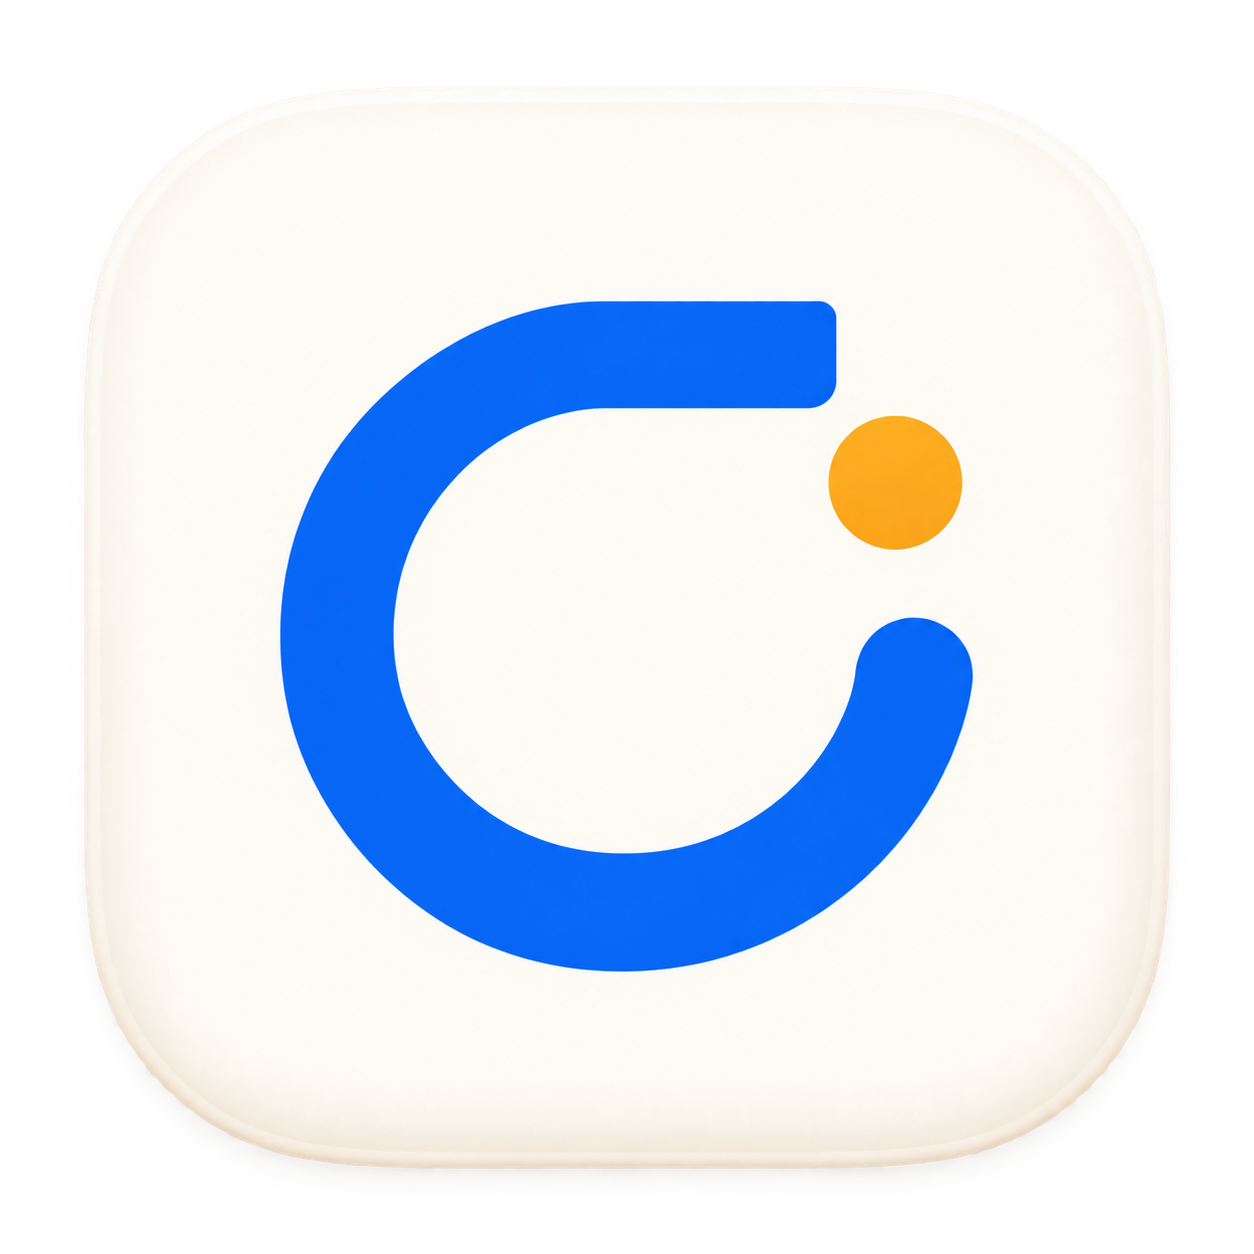
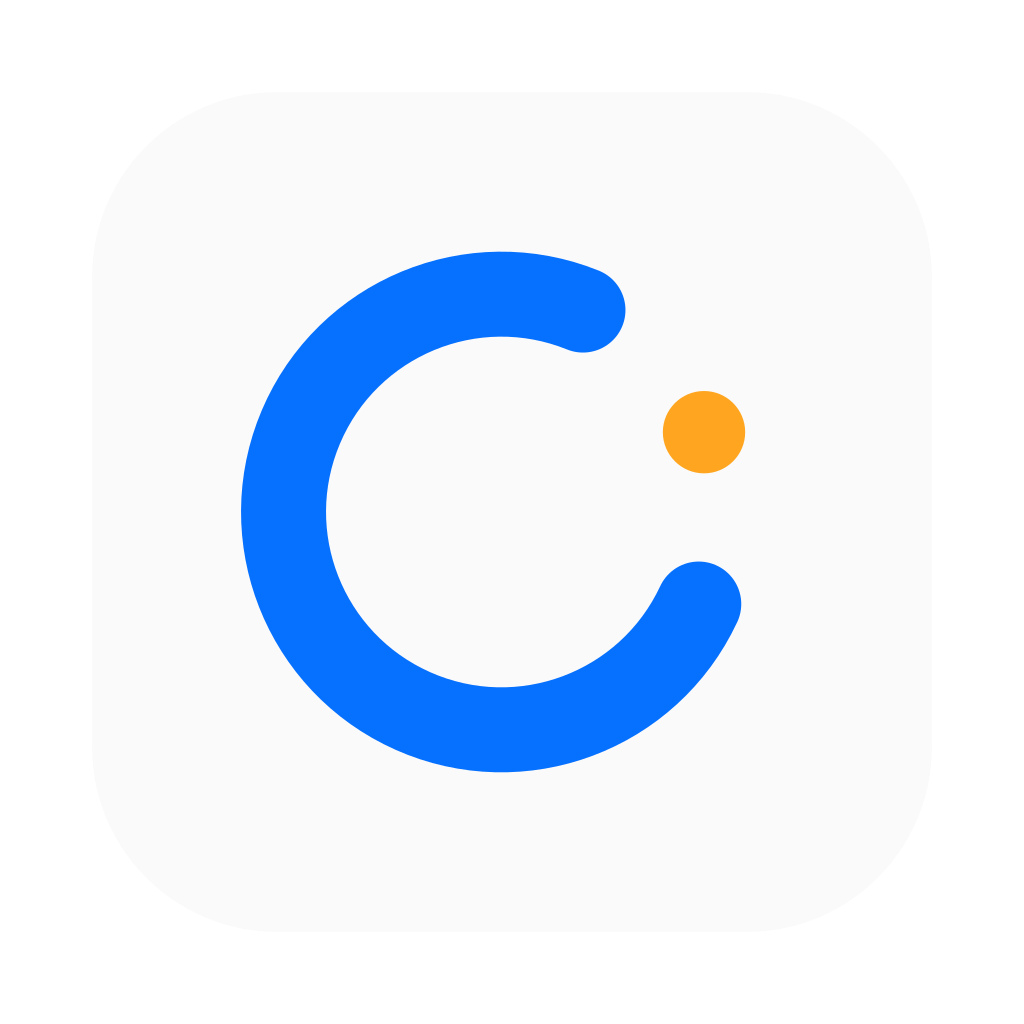
feat: refresh cross-device branding and ship transcript recovery in build 69

diff --git a/docs/STATUS.md b/docs/STATUS.md
@@ -1,5 +1,19 @@
 # 当前状态与续做记录
 
+2026-09-30 新图标、启动动画与消息同步恢复：按用户选定01号方案统一Mac/Android矢量资源，并按反馈将橙点下移至开口视觉中间。手机系统启动沿原450ms入口替换飞机，无底板；桌面图标与冷启动录像实拍确认。现场查明主长对话增量游标停在9,001,542字节compacted记录前；CLI以固定块跳过已确认无正文的顶层压缩快照，保留其他正文与工具记录，并修初页EOF竞态。51项专项、typecheck、独立审查通过；真实只读56页回放取得66条消息并追平。Swift205项、release与签名通过，Mac69正式覆盖安装且账号/机器身份保持，手机51aff080覆盖安装并回读SHA一致。目标详情未打开时本地缓存由156增至223条，用户确认“问题已经解决了，OK的”，并决定今天开始正式使用、边用边测；此后停止设备输入与服务重启。未新增断网/合盖/后台推送验收。连接组件2a84c29a5、Android dc28c18已本地提交，未推第三方上游；主仓阶段提交按本轮收尾执行。保留最新/上版及离线模拟器版本，旧Mac67/手机6ef包按哈希核验后清理。详见当日原生验收；下一步按用户实际远程反馈处理，不自行打断正式使用。
+
+2026-09-30 启动预览去底板：用户确认去掉Logo后的白色圆角底板。使用内置imagegen生成透明标志并嵌入原约950ms动画，蓝C与橙点独立显示，页面跟随浅/深主题；桌面图标及Android资源未改。透明通道确认背景/内孔alpha为0；浏览器两主题实拍无底板，重播有4项动画、减少动态效果为0、320px无横向溢出、脚本无错误。只更新动画预览及设计记录，未构建安装或提交推送；消息同步问题仍按用户要求仅登记。
+
+2026-09-30 启动动画仅预览：按用户“先做一个动画让我看看”，制作复用原标志的约950ms可重播预览，主体淡入并停稳、橙点弹入亮起，无循环/进度条。浏览器实际渲染及0/400/950ms画面检查通过，320px外层下无横向溢出，减少动态效果时动画为0，脚本无错误。飞机来源已只读定位到Android12+系统启动资源tg_splash_320.xml；未接入Android、未新构建安装，等待用户对预览反馈。消息同步问题只登记不排查；登录页和图标最新修改未提交推送。
+
+2026-09-30 用户反馈新增消息未同步：实体手机安装1759c23f后，用户反馈本对话未更新、未收到新增助手消息。按用户最新决定只登记问题，暂不排查，先做启动动画预览。发生时前后台、网络、同步游标均未核实，根因未确认；关联REQ-002/R-15/D-22及R-06，详见当日原生手机验收记录。此前登录页/图标修改仍未提交推送，Android唯一远程是Telegram上游。
+
+2026-09-30 Android 图标缩小并安装实体手机：用户确认缩小蓝色 C 与橙点、安装最新版本。仅两份 adaptive icon XML 前景四边内缩9%，整体缩小18%，白底及原位图不变；legacy原已有留白不再缩。独立审查与diff检查通过，离线增量构建11秒成功；包含前轮登录页修正，APK 74,078,161字节，产物与实体手机回读SHA一致1759c23fe638678bf0c20c6cbc3a238c57de1119676d9c97561fbbf2270a6c70。覆盖安装Success，启动命令1349ms，桌面实拍确认下方新版图标留白增加、未见异常边框；上方旧版应用保持原状。没有退出账号、清数据或发送消息，不新增收发验收结论。保留手机原6ef516d3回退及断连模拟器最后已装1b7ddf96，核验后清除更旧b8c9bb44/e119aa89两个回退包并保留哈希记录。图标设计与当日验收同步，本轮未提交推送。
+
+2026-09-30 仅登录页恢复原版布局：按用户最新限定，Codex 入口由原邮箱页改回原 PhoneView，去掉邮箱插图和国家/区号入口，复用原标题、说明、账号框、箭头按钮与翻页动画；保留现有密码认证，账号不走手机号清洗、SIM 或短信流程。Android 离线构建通过（4分6秒），模拟器独立用户11安装并回读完整SHA一致1b7ddf9600565620e471f71e9156d463b57c0bc1929aa581d5aa396b8d7f789c，74,078,161字节。实测合成账号字母/数字/下划线完整、进入密码页、返回仍保留账号；清测试文本并拍摄收起键盘的最终图。未提交密码或复验登录收发，实体手机未连接。恢复模拟器原用户10及AC off；保留本轮前设备实际包e119aa89回退与断连手机相关回退b8c9bb44，未清应用数据。需求、设计及验收记录已同步；本轮未提交推送，其他页面不在本轮修改范围。
+
+2026-09-30 Telegram 分支只读对照：按用户“先不改”要求，核实 Nekogram 隐藏底部导航、Nagram 逐项消息菜单隐藏、Forkgram 入口删减、Forkgram Classic 保留经典外观、exteraGram 导航/设置/菜单替换，以及 Nagram X Turbo 可选 iOS 风格输入栏。均为项目官网、仓库或发布说明证据，不代表已在本机运行验收。Forkgram 仓库及 exteraGram 官网有发布图片，具体截图版本未注明，图片读取部分受限、浏览器打开超时，不能宣称完成逐像素对照。当前 Android 源码再次确认：Codex 消息菜单仅复制/失败重试，聊天顶部菜单整块隐藏，historyMessage 未映射文字格式 entities；局部选字 helper 仍在，不能据此断言功能已删除，多选复制已有前轮实测。下一步应逐页核对保留交互与删减入口，用户确认前不切换基座、不改产品代码。本轮无构建、安装或提交推送。
+
 2026-09-30 实体手机首轮验收：用户连接并授权操作后，原生6ef516d3安装成功，设备APK完整SHA与产物一致，保留旧版数据；同账号登录成功。蜂窝网络在线基线physicalbase0930的T0→桌面原记录T2为2116.3ms；两轮确认默认网络none后自动恢复，状态恢复观测3622.8/4594.5ms（含UI层级采样），恢复后首发physicalreca0930/physicalrecb0930分别2487.5/323.5ms。三条原用户/助手记录各1，手机自动回复，下一草稿及键盘保留；离线退出重开测试对话仍显示历史和草稿。T2采样50ms含ADB注入，T1/精确T3未观测。本轮未测合盖、锁屏推送、实际审批或长历史完整矩阵。清测试草稿并返回列表，恢复两SIM数据开、WiFi关，默认网络已恢复；无生产代码变更。
 
 2026-09-30 原表情面板中文补齐：实测无GIF/贴纸入口，但分类仍英文；补原12条资源（8分类及近期表情相关文字），不改布局。构建3秒、安装Success、冷启3283ms；产物/设备SHA一致6ef516d3755f0a25b616af81a0ce1b6772ea2fe6d67a6b06f0cfc89a253f59d3，74,077,956字节。真实面板显示表情与人物，点击表情进入草稿，原删除按钮清空，未发送；回首页并恢复AC off。与b8c9bb44回退包的16个DEX/原生库逐项一致，未重跑收发或扩大功能结论。保留b8c9bb44并核验，清更早e911e6aa；Android本地提交abb79ee，未推送上游。

diff --git a/docs/validation/native-acceptance-2026-09-30.md b/docs/validation/native-acceptance-2026-09-30.md
@@ -1,6 +1,42 @@
 # 原生手机端验收核对（2026-09-30）
 
-当前安装：Mac68 / Android 6ef516d3（表情中文资源补齐，业务DEX/原生库与b8c9bb44一致）。完整证据与失败轮次见 [本批验收](mobile-cache-size.md)。这是实施核对，不修改已确认范围，也不是整体验收通过。
+当前安装：Mac69；实体手机 Android 51aff080（新图标、系统启动动画、登录布局修正），模拟器离线，最后确认包仍为1b7ddf96。不同包的验收证据分别记录，完整证据与失败轮次见 [本批验收](mobile-cache-size.md)。用户已确认本次消息同步问题解决，并从今天开始日常正式使用；这不替代未完成场景的逐项验收。
+
+## 新增消息未更新：现场修复与用户确认
+
+用户恢复排查授权后，保留手机原缓存和电脑连接现场，确认长对话游标停在一条9,001,542字节的 `compacted` 记录前。原读取器8MiB单行上限导致重复空页且游标不动；与后台限制无关。修复只在文字投影和子任务发现路径跳过明确的顶层压缩快照，固定块扫描、完整换行后推进；其他正文和工具结果不按大小丢弃。另修初次历史读取期间新消息追加的EOF竞态。
+
+- 合成验证：4个文件51项通过，CLI typecheck、独立代码审查及差异检查通过。真实只读回放从原卡点连续56页取得66条可显示消息，1257ms，末页无积压；这不是手机端到端耗时。
+- Mac：205项 Swift 测试通过，release构建及深度严格签名通过。正式覆盖安装1.0.0/build69，组件1.0.0+codextop.69；保留账号与机器身份，只恢复一个正式实例。设置窗口已打开；本轮桌面截图API不可用，不宣称截图视觉验收通过。
[1 lines of base64/hex data omitted]
+- 自动补齐：手机停留在会话列表、未打开目标详情及手动刷新，原目标缓存由156条增至223条，原卡住游标已前进；用户随后明确反馈“现在问题已经解决了，OK的”。用户开始边用边测后停止设备输入、重启与安装操作。
+- 图标：采用01号方案，橙点按用户反馈下移至开口视觉中间，Mac和Android共用矢量几何。手机桌面实拍与从桌面点击冷启动的录像确认新图标及无底板的蓝C/橙点动画，无原启动飞机。直接activity启动的首轮录像未拍到启动图标，未作为通过证据。
+
+源码：连接组件本地提交 `2a84c29a5`，原生Android本地提交 `dc28c18`；不推送第三方上游。私有证据在忽略目录 `.local/latest-message-20260930/`。本次未发新合成消息、未复测两轮断网、三秒送达、合盖或后台锁屏推送；非压缩超大行、缺尾游标及来源断档恢复仍为独立边界，不据此宣布全功能完成。
+
+构建中首次未找到Bun，复用已有本地工具修正PATH后通过；资源打包前曾用错源文件相对目录，纠正为绝对路径并核验15份PNG后重打最终包，错误中间包未安装。旧产物清理保留Mac69及68回退、Android当前包及1759c23f回退、离线模拟器仍在用的1b7ddf96；核对哈希后清理Mac67和手机更早6ef516d3。
+
+### 最初登记（保留问题经过）
+
+用户在安装1759c23f后反馈当前对话没有更新，未收到桌面新增助手消息，并明确要求先将其作为问题记录、暂不排查，先做启动动画。关联REQ-002/R-15/D-22（普通对话自动同步）及R-06（原任务收发）。发生时应用前后台、网络、连接与同步游标尚未核实，未复现、未确认根因，不归因为后台限制，不标记已修复。
+
+后续验收应确认：手机已打开当前对话时，桌面新增消息自动入列；未打开详情时新消息自动保存到本地，重进不需手动刷新。此前其他包的成功记录不能代替本次问题验证。
+
+## 启动图标缩小与实体手机覆盖安装
+
+用户确认将蓝色 C 和橙点整体缩小，并安装最新版。两份 adaptive icon XML 前景四边内缩9%（主体缩小18%），原位图和白底不变；legacy图标原已有留白不再缩放。独立资源审查、差异检查及离线构建通过（11秒）。APK 74,078,161字节，完整SHA256为1759c23fe638678bf0c20c6cbc3a238c57de1119676d9c97561fbbf2270a6c70，实体手机覆盖安装Success且设备包哈希一致；包含前轮登录页修改。
+
+启动命令返回正常（1349ms），进程存活，无本轮应用崩溃记录。桌面实拍显示下方新版图标主体缩小、白色留边增加，未见异常底板边缘；上方仍为未修改的旧版应用。截图位于私有忽略目录`.local/icon-spacing-20260930/launcher-final.png`。未退出账号、清数据或发送测试消息，不将安装/图标验证扩展为收发或新登录验收。
+
+构建前磁盘可用23GiB，核查Gradle缓存8.4GiB及两模块构建目录2.2/1.6GiB，未清空缓存。安装回读成功后，保留新包、手机原6ef516d3回退及断连模拟器仍在用的1b7ddf96；核验哈希后淘汰更旧b8c9bb44/e119aa89回退包，保留小体积哈希记录。本轮未提交推送。
+
+## 登录页恢复原版布局
+
+用户明确本轮只改登录页。Codex 登录入口改用 Telegram 原 PhoneView，移除国家/区号入口，改为账号文字输入；原标题、说明、输入框、箭头按钮和切页动画保留。原邮箱页不再承担 Codex 账号输入，因此没有邮箱插图。现有密码页和账号认证继续沿用。
+
+离线 APK 构建通过（4分6秒）；包74,078,161字节，SHA256为1b7ddf9600565620e471f71e9156d463b57c0bc1929aa581d5aa396b8d7f789c。模拟器独立用户11安装并回读设备APK哈希一致，冷启动命令3393ms。实测合成账号的大小写字母、数字和下划线完整保留，原箭头进入密码页，返回账号页仍保留输入。已清合成文本、收起键盘并检查最终截图；未提交密码，不扩展为真实登录或收发验收。独立代码复核未见手机号清洗或SIM/短信流程混入账号路径。
+
+测试后恢复原用户10及AC off，账号、网络和应用数据未清除。保留本轮前模拟器实际包e119aa89作为回退，以及断连手机相关回退b8c9bb44；不按旧记录把模拟器误标为6ef516d3。截图保存在私有忽略目录`.local/ui-comparison-20260930/login-phone-final.png`。本轮没有实体手机安装或提交推送。
 
 b8c9bb44业务包在线回归：原桌面对话记录出现336.9ms，用户与助手各1条；手机自动收到回复，后续草稿和键盘保留。只覆盖在线路径。
 

diff --git a/docs/design/logo-v1.md b/docs/design/logo-v1.md
@@ -1,14 +1,30 @@
 # Codex Top Logo
 
-日期：2026-09-11。用户已确认采用此设计，并要求接入、安装。
+当前：2026-09-30，采用用户选定的 01 方案，并将橙点下移至开口视觉中间。电脑和手机共用同一矢量几何。
 
 ![Codex Top Logo](../../Resources/AppIcon.png)
 
-蓝色 C 形运行圆环代表 Codex 任务监控，顶部横笔呼应 Top，橙色圆点代表待处理提醒；浅色圆角底板用于 macOS 应用图标。原图由内置 imagegen 生成，1254 × 1254 PNG，保留透明通道。
+当前蓝色 C 两端均为圆头，橙点位于开口角中心。可编辑源为 `Resources/BrandMark.svg`（透明标志）及 `Resources/AppIcon.svg`（浅色圆角底板），PNG 由 SVG 标准渲染为 1024×1024。方案选择阶段用内置 imagegen 生成参考图；生产源改为矢量，避免位图透明边缘不齐。
 
-源资产为 `Resources/AppIcon.png`。打包脚本用 macOS `sips` 等比缩放生成标准 16–1024 px 图标表示，再由 `iconutil` 生成 `AppIcon.icns`，通过 `CFBundleIconFile` 接入应用。生成的 iconset 和 ICNS 属于构建产物。菜单栏与任务状态继续使用现有界面符号。
+打包输入为 `Resources/AppIcon.png`。打包脚本用 macOS `sips` 等比缩放生成标准 16–1024 px 图标表示，再由 `iconutil` 生成 `AppIcon.icns`，通过 `CFBundleIconFile` 接入应用。生成的 iconset 和 ICNS 属于构建产物。菜单栏与任务状态继续使用现有界面符号。
 
-应用版本维持 `0.1.0`，构建号从 1 增至 2，区分本次图标安装包与已发布包；历史 Release 附件不覆盖。本次只调整应用资源与打包，验证结果见 [Logo 安装验收](../validation/app-icon.md)。
+本次 Mac 构建号为 69；历史 0.1.0/build2 的图标接入记录见 [Logo 安装验收](../validation/app-icon.md)，不覆盖历史 Release 附件。当前安装与消息同步修复证据统一见 [当日验收](../validation/native-acceptance-2026-09-30.md)。
+
+当前几何：320视口，C中心(156,160)、半径82、线宽32；蓝色 `#0670FF`。橙点中心(232.2942,129.9469)、半径15.5、颜色 `#FFA51F`，位于开口中心角 -21.5 度。Mac主体约占底板62%；Android adaptive 前景内缩16%，系统遮罩后的标志约占可见图标62%。
+
+Android 12+ 在 Codex 品牌资源层覆盖原 `tg_splash_320.xml`：沿用系统启动入口，圆弧轻微缩放淡入、橙点弹入，最长450ms，无标志底板，不人为延长启动等待。背景继续跟随原版启动主题；约950ms的早期浏览器预览是动作参考，不等于设备实际播放时长。
+
+## 2026-09-30 Android 启动图标留白
+
+用户指出手机桌面的蓝色 C 占比过大，确认缩小主体并安装最新包。原生 Android 的普通与圆形 adaptive icon 仅在 XML 中对前景四边增加 9% 内缩，使蓝色 C 和橙点整体缩至原来的 82%；白色背景、形状和配色保持原样。旧版 legacy 图标已有充足留白，不重复缩放。此调整针对 Android 系统遮罩造成的前景放大，不修改 macOS 原始图标。安装与实机检查见 [当日原生手机验收](../validation/native-acceptance-2026-09-30.md)。
+
+### 早期启动动画预览（历史记录）
+
+用户反馈打开应用仍显示 Telegram 飞机，要求先做动画预览。当前提案复用原有 Codex Top 标志，约950ms：主体轻微上移、淡入并停稳，橙点延迟弹入并短暂亮起；不循环、不添加进度条。预览支持重播和系统减少动态效果偏好，窄屏无横向溢出。仅生成会话内预览，尚未接入 Android 或更新安装包。
+
+同日用户确认去掉启动标志背后的白色圆角底板。已用内置 imagegen 制作透明蓝色 C 与橙点预览素材，去除底板、阴影和边框，保留上述动作及原有显示尺寸；页面背景随宿主浅色/深色主题切换，桌面图标不受影响。两种主题实际渲染确认无白色底板，重播、减少动态效果和320px窄屏检查通过。此修改仍仅限动画预览。
+
+已只读定位飞机为 Android 12+ 启动主题使用的 `tg_splash_320.xml`，与桌面启动图标独立。后续获确认后可在 Codex 专用资源目录覆盖该动画，沿用现有启动主题；本轮未修改该资源，也未改其他页面。
 
 ## 原始生成提示词
 

diff --git a/docs/REQ-002-局域网多设备监控/detailed-design.md b/docs/REQ-002-局域网多设备监控/detailed-design.md
@@ -1,5 +1,7 @@
 # REQ-002 详细设计
 
+> 2026-09-30 登录页局部纠偏：用户已对照原版手机号页明确要求按原版外观修改，且限定“先只改登录界面”。原生 `LoginActivity` 的 Codex 入口从邮箱页改回原 `PhoneView`；沿用其布局、字号、原下一步和翻页动画，删除国家/区号、联系人同步和电话测试入口，输入框改为账号与系统文本键盘。账号不进入数字格式化、SIM 自动填充、短信权限、国家列表预取或通行密钥流程。下一步仍进入现有密码页调用既有 Codex 认证；返回原账号页保留本次输入，不新增页面或修改服务端。此处为恢复已确认原版界面的实现修正，其他页面保持本轮前状态。
+
 > D-21（2026-09-27）局部修订：依据用户明确的“发出后直接移除编辑框、进入对话”实施。复用本地待发送消息与同一 `localId`，在等待电脑控制状态前显示用户消息，并仅清理本次交接草稿；发送期间保留输入能力。消息行以小字表示发送中，实际受理后去掉提示，桌面回声沿原消息去重合并。明确失败显示失败并可恢复编辑；结果未知保留待确认状态，不自动发送、不伪装受理。恢复编辑沿用原草稿快照机制，保护下一条草稿。不开新队列、缓存或服务端待发记录，运行状态与发送结果仍来自原控制链。验收覆盖即时气泡、晚回执不清新草稿、失败／未知保留、回声前后顺序及空闲／运行中发送。
 
 > D-16（2026-09-25）局部修订已由用户点选：[对话状态顶栏方案 B](../design/mobile-ui-2026-09-25/chat-status-header.md)。标题下固定状态行，底部仅输入区，错误与审批详情按需打开；运行事实和控制读取异常分别表达。此规格覆盖旧图中的底部状态／错误堆叠，其余正文、导航和业务保持既有设计。
@@ -302,3 +304,7 @@ Android 13 及以上通知权限需要用户授予，设计在用户启用通知
 ### 本批实施补充 D-05
 
 用户在桌面自动操作新建方案说明后回复“暂时不做”。手机新建入口本批不开放；真实项目保持只读浏览，原任务操作继续。不得转入旧 machineSpawnNewSession，也不把新建标为通过。原生稳定入口为后续依赖。
+
+### 2026-09-30 长对话增量读取修复
+
+现场文字同步游标停在超过8MiB的 `compacted` 压缩快照前。文字投影只对原生顶层 envelope 明确识别的该类型逐块扫描至完整换行，再沿原游标前进；不上传压缩快照，不因大小跳过用户、助手正文或工具结果。保留原分页大小、轮询节奏及本地缓存。初始历史页与尾游标共享读取前文件边界，避免分页期间追加的消息被尾游标越过。非压缩超大行和来源断档恢复仍保留原边界，不计为本次解决，验证见当日验收。

diff --git a/docs/REQ-002-局域网多设备监控/requirement.md b/docs/REQ-002-局域网多设备监控/requirement.md
@@ -1,5 +1,7 @@
 # REQ-002 多电脑 Codex 会话、手机通知与对话
 
+> 2026-09-30 登录页修正：用户对照原版手机号登录截图后要求“界面，基本上都按照原版的来，只改文字”，并明确“先只改登录界面”。本轮以原版手机号页为外观基准，保留其标题、说明、输入框、按钮及动画；移除国家/区号等与账号登录无关的入口，只替换必要文案及文本输入行为。不得因为复用原邮箱页而带入邮箱插图。后续密码页和既有账号认证继续沿用；其他页面不在本轮修改范围。
+
 > 2026-09-29 原生手机端验证：用户提出直接采用 Telegram UI 并删减，随后确认“开始实现，先跑通”。所有界面（包括登录页）沿用 Telegram 原有页面、布局、组件及动画，只做功能删减，不自建页面、不重构界面；不能以零散使用 Telegram 组件替代保留原版界面。接入现有 Codex 账号和传输链路，完成一个真实原桌面对话的本地历史、文字发送与自动回复闭环；验证通过后再扩展为完整手机端并移除联系人、群组、频道、通话等无关入口。账号密码与 Codex 收发需要必要的业务适配，不代表允许另行设计 UI。不得以官方 Telegram 登录成功、合成消息演示或静态页面代替 Codex 对话接入。此前功能需求继续有效，已有正式账号、Mac连接组件和云端不因界面切换而重建。
 
 > D-22 补充（2026-09-28）：用户明确“有新对话，新消息就加载到本地，而不是点开后才加载”。手机发现新对话时自动加入最近列表并同步消息；已有对话的新消息即使详情未打开，也自动增量保存到本地。打开详情直接显示本地已有记录，网络同步不得将它清空或阻塞其显示。断网期间保留记录，恢复连接或重新启动后自动补齐缺口，不以点开详情或手动刷新作为同步触发条件。沿用原账号分区、缓存容量与最近会话上限，按变化增量同步，较早历史继续按需分页；不每轮全量读取所有项目历史。系统允许后台执行时继续同步，被系统挂起／回收后的补齐与锁屏推送分别验收，不能冒称已支持持续后台运行。
